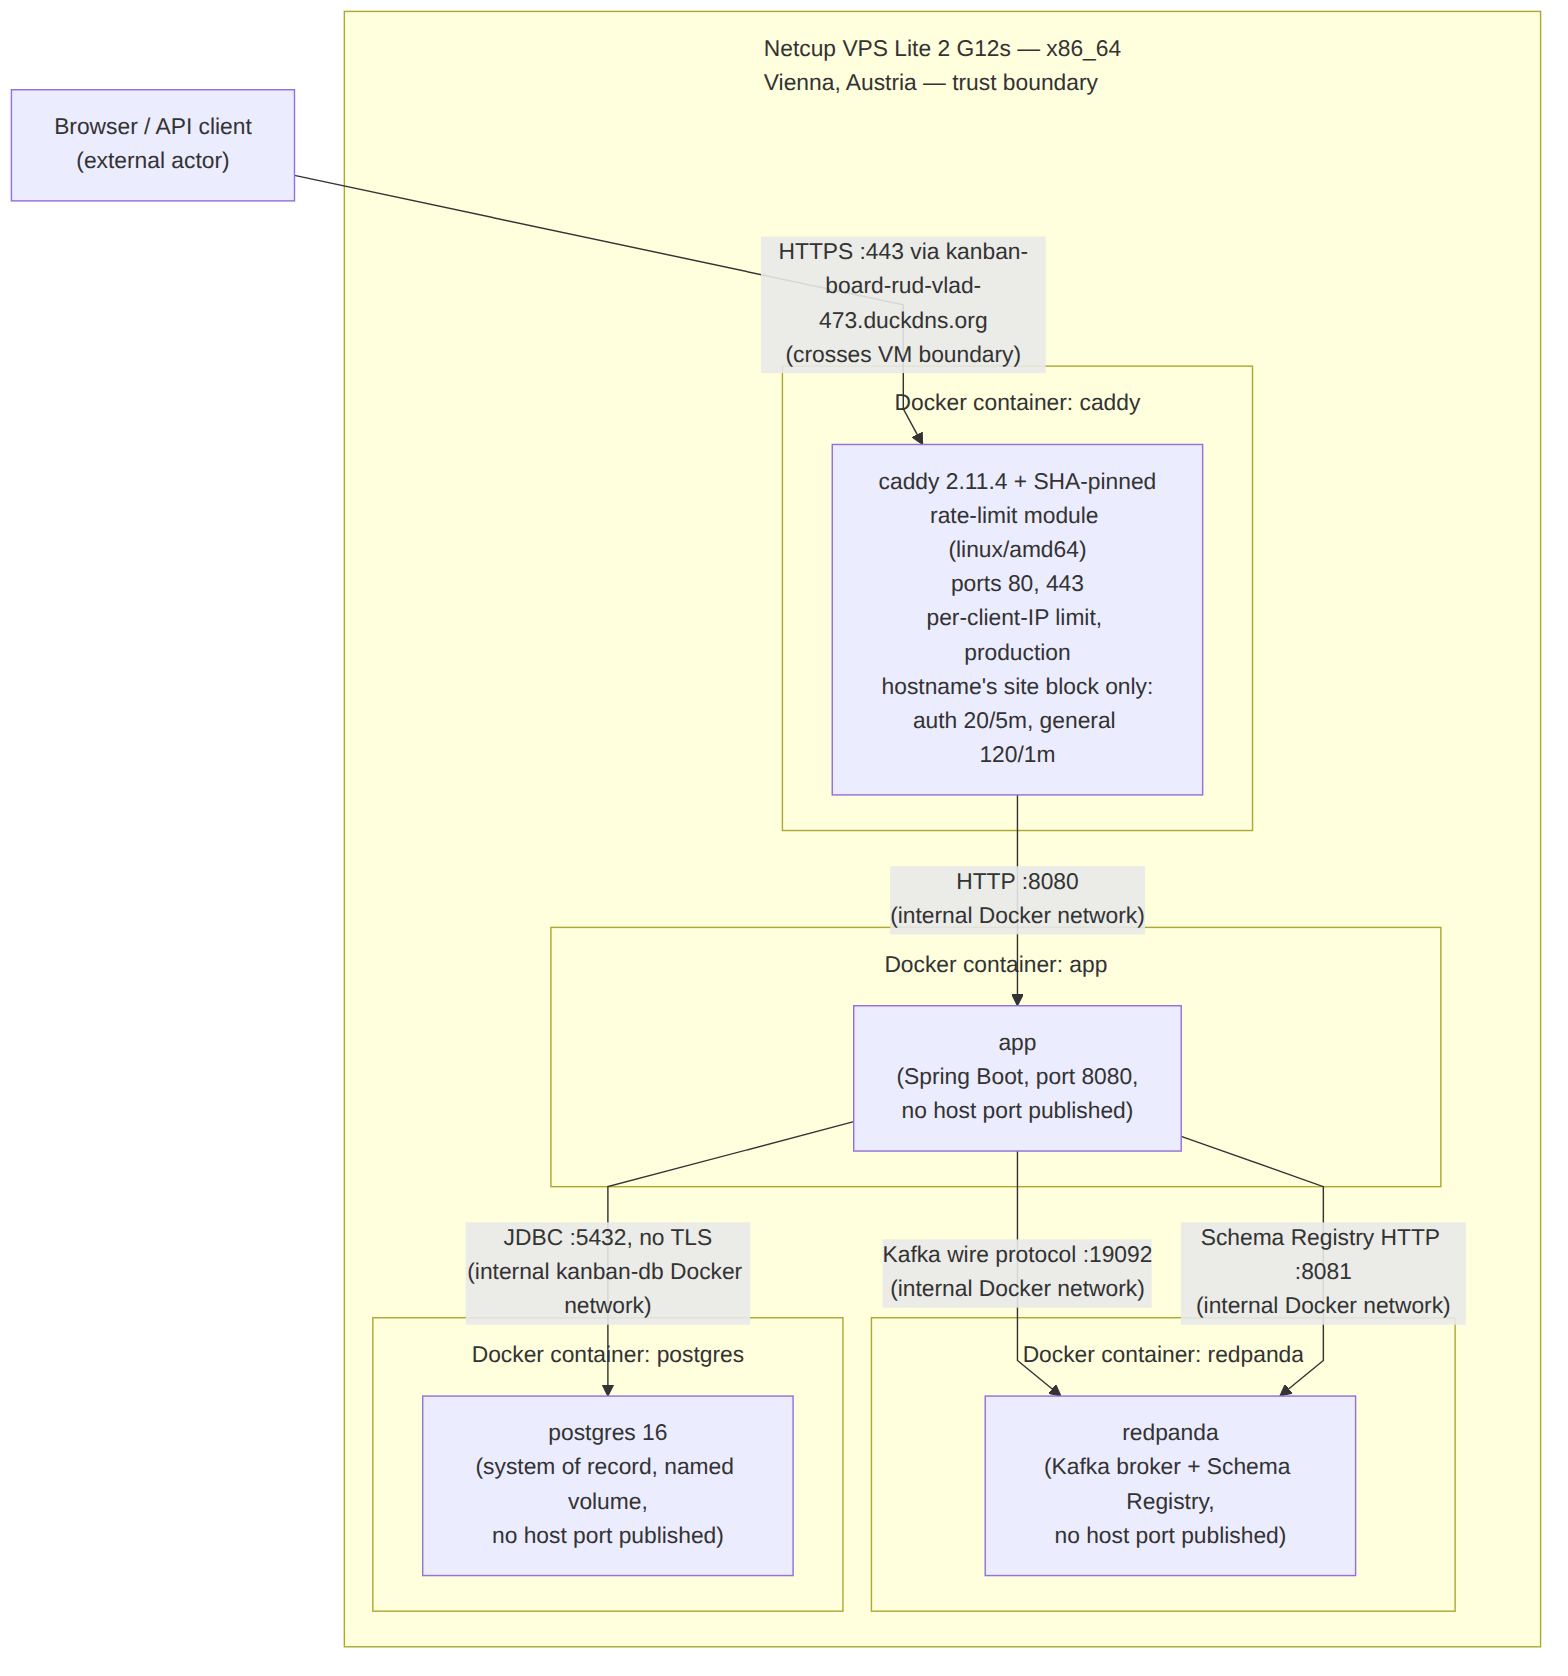
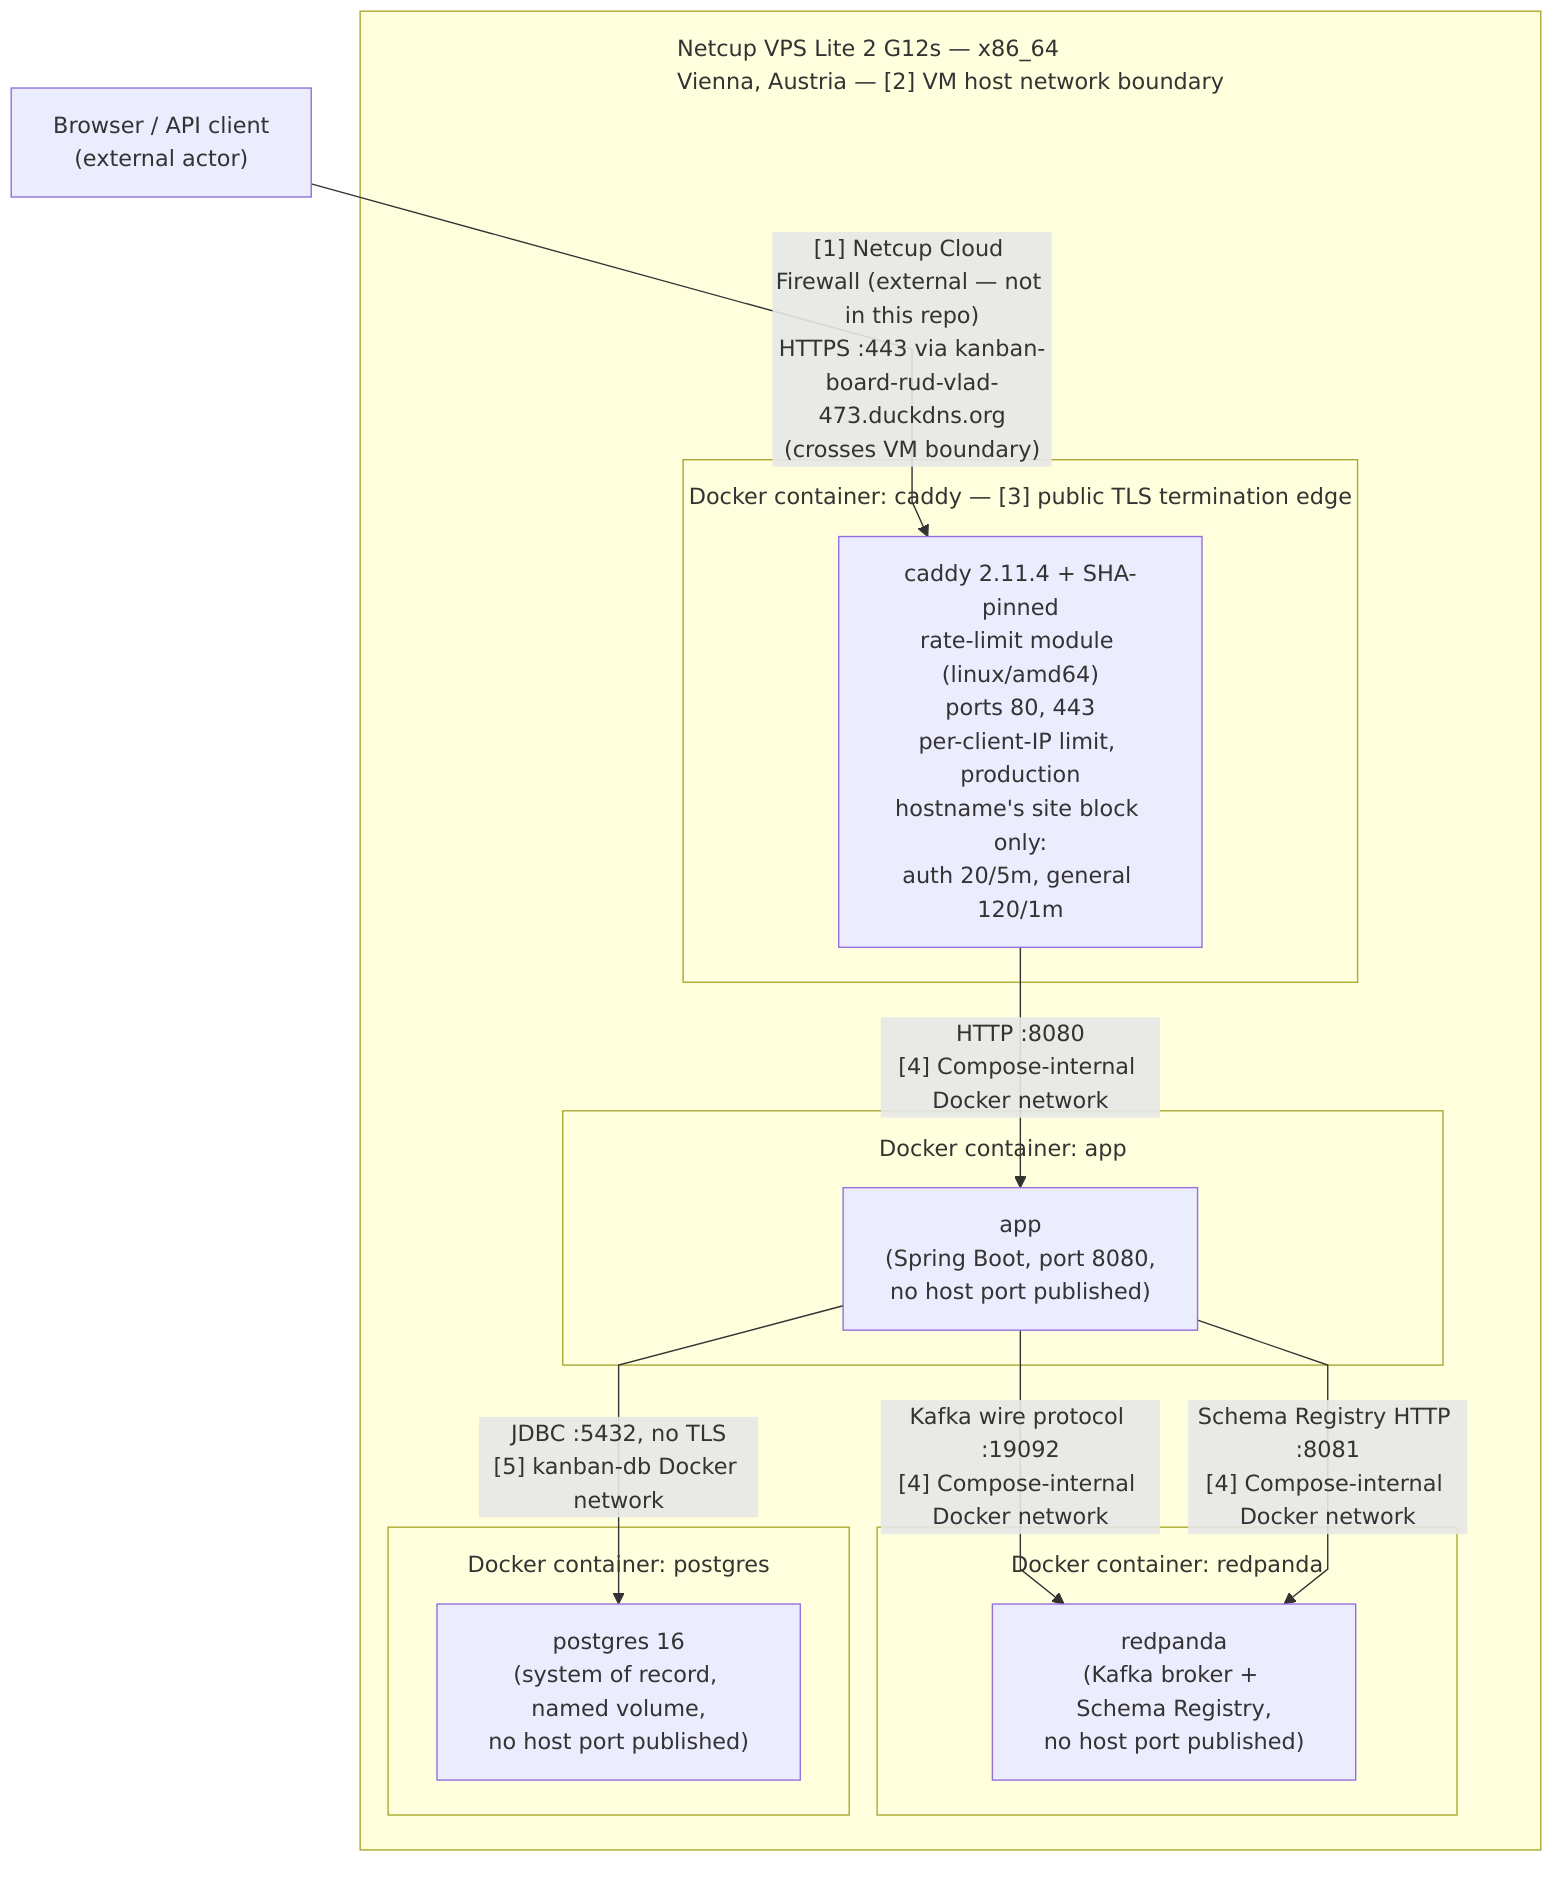
feat(260905-tw0): add packet-path Scenario diagram, number trust boundaries, extend Maintenance Note
- docs/diagrams/infra-packet-path-scenario.mmd/.png: new Scenario (+1) view tracing one inbound
  packet through PREROUTING -> Docker DNAT -> FORWARD -> DOCKER-USER (drawn empty, dated
  2026-09-05) -> DOCKER -> caddy -> app, with the host-daemon INPUT path drawn as a separate leaf
  so container traffic visibly never traverses INPUT
- infra-physical-deployment.mmd/.png: additive label edits only (no topology change) promoting the
  bare "trust boundary" string to five numbered, named boundaries shared with the new diagram;
  [1] Netcup Cloud Firewall marked external -- not in this repo
- render-manifest.tsv: scale-2 row added for the new diagram
- INFRA_ARCHITECTURE.md: new Scenario section (reproducing commands, the DOCKER-USER finding, the
  todo that will falsify the dated annotation), opening paragraph corrected from two views to
  three, numbered-boundaries explanation added to the Physical/Deployment section, Maintenance
  Note extended with the diagram sources/render script, the iptables facts and the external
  Netcup Cloud Firewall policy
- both PNGs rendered and verified via `scripts/render-diagrams.sh --check`; exactly these two PNGs
  changed

diff --git a/docs/INFRA_ARCHITECTURE.md b/docs/INFRA_ARCHITECTURE.md
@@ -16,10 +16,14 @@ correction is called out here rather than silently applied — a reader who reme
 topology needs to know the difference is real and not a documentation slip.
 
 Per [`docs/DIAGRAM_CONVENTIONS.md`](DIAGRAM_CONVENTIONS.md), each diagram below is one deliberate
-Kruchten 4+1 view, not an ad hoc mix of concerns. The two views chosen are the ones that matter
-most for this deployment: **Physical/Deployment** (what runs where, on what hardware) and
-**Scenario (+1)** (the one end-to-end flow — push to master, deploy — traced across the other
-views).
+Kruchten 4+1 view, not an ad hoc mix of concerns. Three views are drawn — one Physical/Deployment
+and two Scenario (+1) views, added at different times for different reasons: **Physical/Deployment**
+(what runs where, on what hardware); **Scenario (+1) — Delivery Path** (push to master through to a
+running deploy, traced across the other views); and **Scenario (+1) — Inbound Packet Path** (added
+2026-09-05, tracing one inbound request through the VM's network layers rather than through the
+deploy pipeline). Updated from "the two views chosen" (singular Scenario) in the same change that
+added the third — leaving that sentence stale here would repeat exactly the failure this document
+already apologises for below with Neon.
 
 ## Physical/Deployment View
 
@@ -65,6 +69,17 @@ procedure that has been written but never executed, and the todo
 `.planning/todos/pending/2026-08-20-no-documented-backup-restore-runbook-for-prod-db.md`, which is
 deliberately still open for the scheduled dump, off-host storage, retention policy and one proven
 test restore.
+
+**Numbered trust boundaries (added 2026-09-05):** the diagram's subgraph and edge labels now carry
+consistent numbers, `[1]` through `[5]`, so this diagram and the packet-path Scenario below can be
+read together against the same boundary set rather than two diagrams inventing their own vocabulary.
+`[1]` is deliberately marked `(external — not in this repo)` — the Netcup Cloud Firewall is a
+control-panel setting on Netcup's infrastructure, not a file in this repository, so it is reviewed
+in no pull request here and its actual ruleset cannot be confirmed from the code. `[2]`–`[5]` are
+boundaries this repository DOES define and version-control: the VM's own host network, Caddy's
+public TLS termination edge, the Compose-internal Docker network, and the `kanban-db` network. The
+distinction matters because it is the entire point of the Scenario below: as of 2026-09-05, `[1]` is
+the only layer that governs traffic to a published container port at all.
 
 ## Scenario (+1) View — Delivery Path
 
@@ -151,6 +166,36 @@ skip a PR touching `docker/caddy/Dockerfile` or `docker-compose.prod.yml`. `depl
 makes tag drift unmergeable — `deploy.yml` fires on push-to-`main` only, so on its own it can block
 a deploy but never a merge.
 
+## Scenario (+1) View — Inbound Packet Path
+
+Traces one inbound packet, from an internet client through the Netcup Cloud Firewall, the VM's
+network stack, and into the Caddy and app containers — a different Scenario from the one above,
+which traces a *deploy*; this one traces a *request*. Added 2026-09-05 after quick task 260905-qxi
+found that this VM's OS-level firewall does not govern container-published ports at all, a fact
+this document had no diagram to express.
+
+![Flowchart: inbound packet path through the VM's network layers](diagrams/infra-packet-path-scenario.png)
+<sub>[diagram source](diagrams/infra-packet-path-scenario.mmd)</sub>
+
+**Reproduce this yourself on the VM** with the same three commands that found the gap:
+`iptables -t nat -S PREROUTING`, `iptables -S INPUT`, `iptables -S DOCKER-USER` (see
+`docs/INFRA_RUNBOOK.md`'s Firewall section for the full output and context).
+
+**The `DOCKER-USER` chain is empty as of 2026-09-05.** Docker's own `-A PREROUTING -m addrtype
+--dst-type LOCAL -j DOCKER` rule DNATs published-port traffic before routing decisions are made, so
+that traffic traverses `FORWARD`, never `INPUT` — the diagram draws this explicitly because a
+packet-path diagram routing container traffic through `INPUT` would draw the exact misconception
+this Scenario exists to correct. `filter INPUT`'s `-P INPUT DROP` policy plus its 22/80/443 ACCEPTs
+therefore governs host-level daemons only (sshd on :22) and is decorative for anything Docker
+publishes. With `DOCKER-USER` empty, **the only layer standing between a published container port
+and the internet today is the Netcup Cloud Firewall — `[1]` in both diagrams above, which lives
+outside this repository and is not reviewed in pull requests.**
+
+This is a tracked, dated claim, not a permanent one: `.planning/todos/pending/2026-09-05-docker-user-chain-empty-on-the-vm.md`
+tracks adding rules to `DOCKER-USER` that would make it false. When that item closes, this section's
+"empty as of 2026-09-05" annotation — in the diagram and in this prose — becomes stale and must be
+updated in the same change, not left describing a chain that no longer matches reality.
+
 ## Maintenance Note
 
 This document describes `docker-compose.prod.yml`, `Caddyfile`, `docker/caddy/Dockerfile`,
@@ -170,3 +215,22 @@ Phase 11 moved the database onto the VM — including a TLS hop that no longer e
 job that no longer runs where it said. The facts most worth listing here are the ones a reader
 would never think to re-check, because they read as settled background rather than as
 configuration.
+
+**Also on this list, added 2026-09-05 (quick task 260905-tw0):**
+
+- **`docs/diagrams/*.mmd` and the render pipeline.** Every diagram's PNG is regenerated from its
+  `.mmd` source with `scripts/render-diagrams.sh`, against the digest-pinned renderer named in that
+  script's own header. Goes stale if a `.mmd` is hand-edited without re-running the script (its
+  `--check` mode catches exactly that), or if the pinned digest is bumped without re-verifying it
+  against the registry (see the script's own header for how).
+- **The VM's iptables facts — specifically `DOCKER-USER`'s contents.** This document's packet-path
+  Scenario states, with a date, that `DOCKER-USER` carries no rules. Goes stale the moment someone
+  adds rules to it on the VM (tracked to close via
+  `.planning/todos/pending/2026-09-05-docker-user-chain-empty-on-the-vm.md`) — and that closure is
+  the point: it is supposed to go stale, and this document must be updated in the same change that
+  makes it so, not discovered stale months later the way the Neon fact was.
+- **The Netcup Cloud Firewall's policy, flagged as external state this repository cannot verify.**
+  Both diagrams above mark it `[1] (external — not in this repo)` for exactly this reason: its
+  ruleset lives in Netcup's control panel, not in a file this document can point at, so this
+  document's description of it ("policy: Default") is only as current as whoever last checked the
+  panel by hand. Goes stale silently if that policy changes and nobody updates this note.
